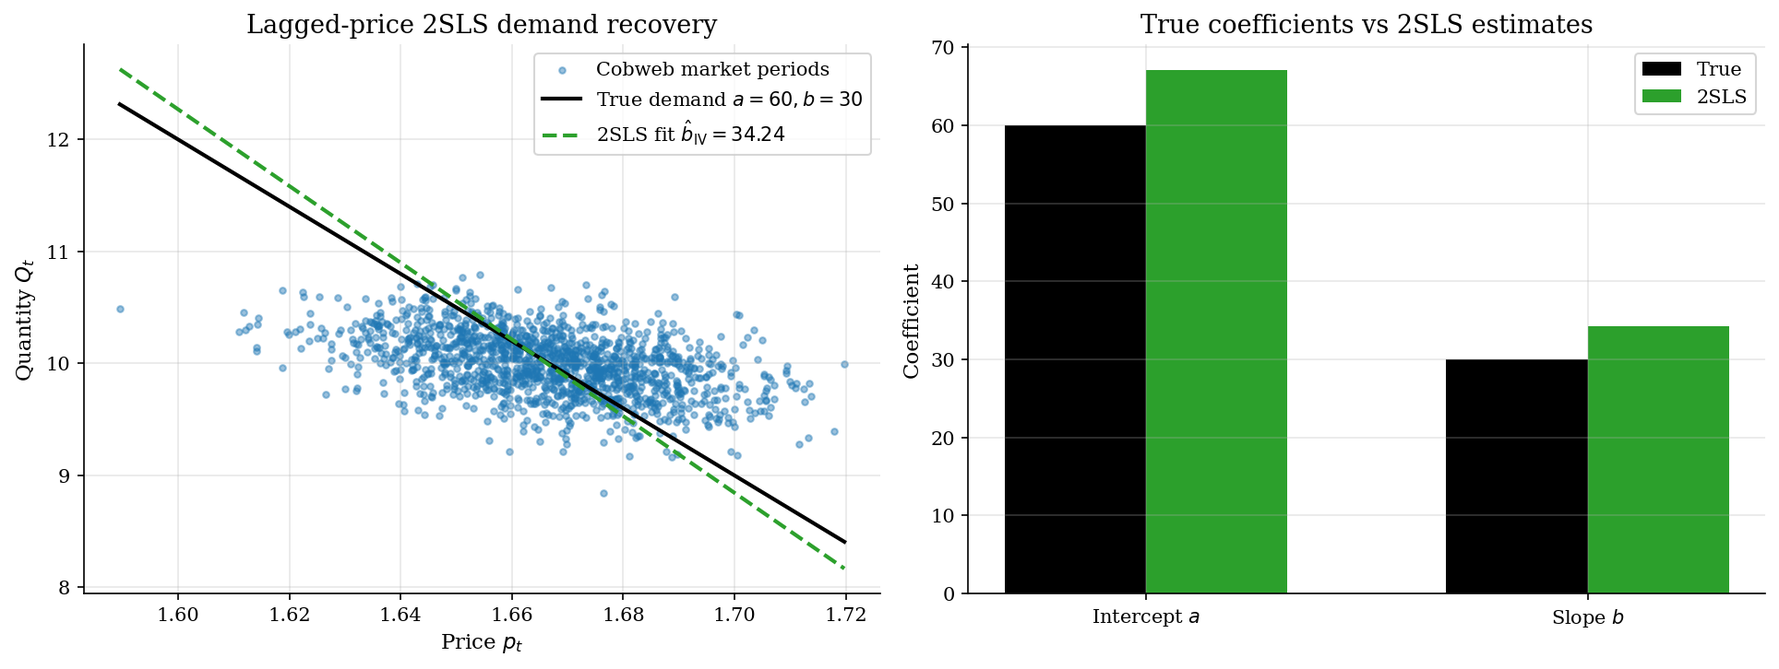
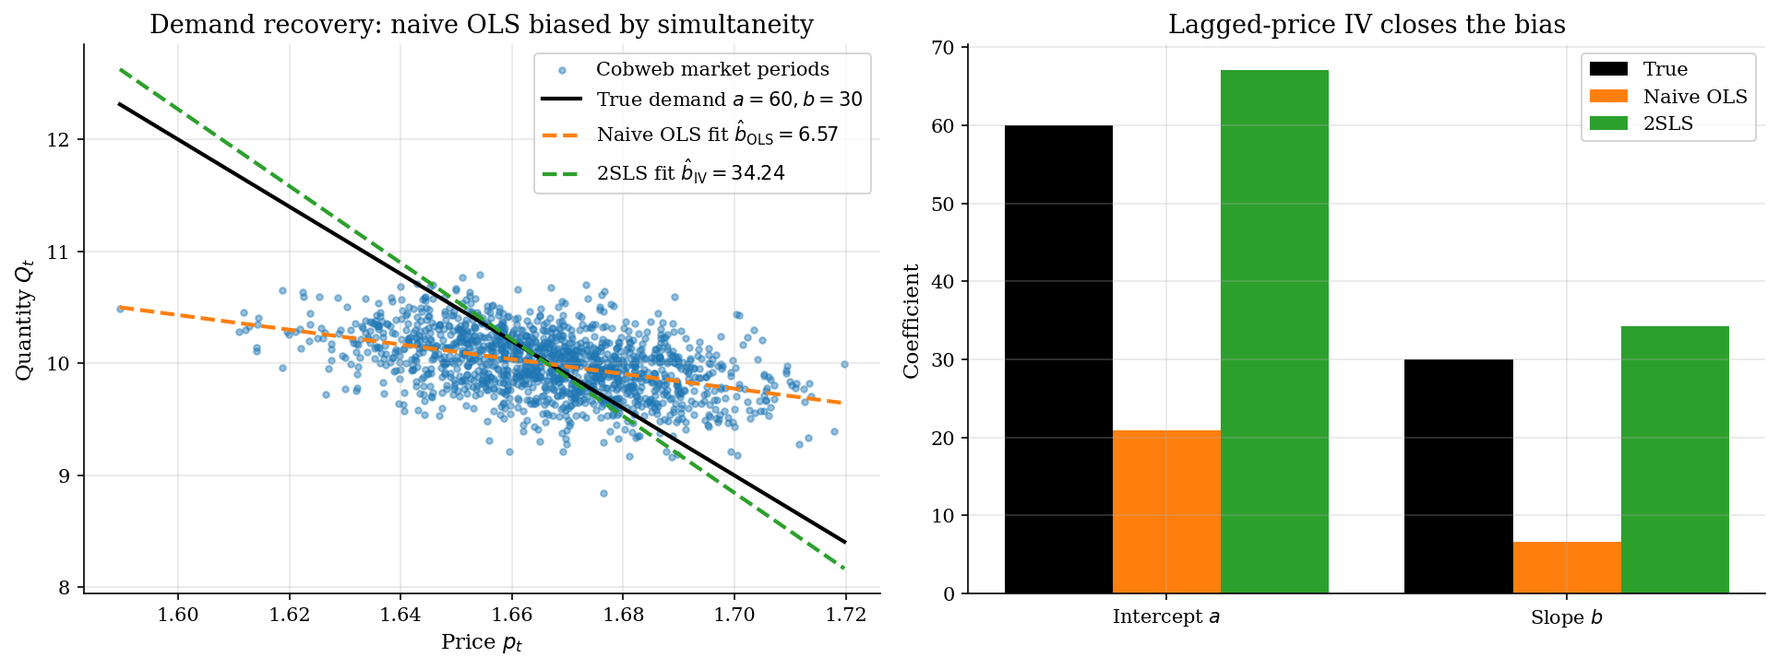
Polish cobweb GA tutorial: glossary, equations, OLS-vs-IV
Notation table now opens the Equations section; key equations carry
underbrace annotations. Adds an abstract GA loop and moves the
econometric setup (demand equation, simultaneity bias, IV moments)
inline with the IV regression results. CSV column headers switched
from snake_case to math/word labels. GA evolution GIF slowed to 60
frames at 400 ms each.

diff --git a/agent-based-models/cobweb-arifovic-ga-learning/run.py b/agent-based-models/cobweb-arifovic-ga-learning/run.py
@@ -217,6 +217,21 @@ def run_ga(
     )
 
 
+def ols_with_hc0(
+    quantities: np.ndarray,
+    prices: np.ndarray,
+) -> tuple[np.ndarray, np.ndarray]:
+    """OLS of `quantities` on a constant and `prices`, with HC0 standard errors."""
+    n = len(quantities)
+    X = np.column_stack([np.ones(n), prices])
+    XtX_inv = np.linalg.inv(X.T @ X)
+    beta = XtX_inv @ X.T @ quantities
+    residuals = quantities - X @ beta
+    Omega = (X.T * residuals**2) @ X
+    cov = XtX_inv @ Omega @ XtX_inv
+    return beta, np.sqrt(np.diag(cov))
+
+
 def two_stage_least_squares(
     quantities: np.ndarray,
     prices: np.ndarray,
@@ -351,6 +366,7 @@ def plot_iv_recovery(
     quantities: np.ndarray,
     prices: np.ndarray,
     params: MarketParams,
+    ols_beta: np.ndarray,
     iv_beta: np.ndarray,
 ) -> plt.Figure:
     fig, axes = plt.subplots(1, 2, figsize=(13, 5))
@@ -358,23 +374,26 @@ def plot_iv_recovery(
     p_grid = np.linspace(prices.min(), prices.max(), 100)
     axes[0].scatter(prices, quantities, s=10, alpha=0.45, color="C0", label="Cobweb market periods")
     axes[0].plot(p_grid, params.a - params.b * p_grid, color="black", label=f"True demand $a={params.a:.0f}, b={params.b:.0f}$")
+    axes[0].plot(p_grid, ols_beta[0] + ols_beta[1] * p_grid, color="C1", linestyle="--", label=rf"Naive OLS fit $\hat b_{{\mathrm{{OLS}}}} = {-ols_beta[1]:.2f}$")
     axes[0].plot(p_grid, iv_beta[0] + iv_beta[1] * p_grid, color="C2", linestyle="--", label=rf"2SLS fit $\hat b_{{\mathrm{{IV}}}} = {-iv_beta[1]:.2f}$")
     axes[0].set_xlabel(r"Price $p_t$")
     axes[0].set_ylabel(r"Quantity $Q_t$")
-    axes[0].set_title("Lagged-price 2SLS demand recovery")
+    axes[0].set_title("Demand recovery: naive OLS biased by simultaneity")
     axes[0].legend(loc="upper right")
 
     labels = [r"Intercept $a$", r"Slope $b$"]
     truth = [params.a, params.b]
+    ols_vals = [ols_beta[0], -ols_beta[1]]
     iv_vals = [iv_beta[0], -iv_beta[1]]
     pos = np.arange(len(labels))
-    width = 0.32
-    axes[1].bar(pos - width / 2, truth, width, label="True", color="black")
-    axes[1].bar(pos + width / 2, iv_vals, width, label="2SLS", color="C2")
+    width = 0.27
+    axes[1].bar(pos - width, truth, width, label="True", color="black")
+    axes[1].bar(pos, ols_vals, width, label="Naive OLS", color="C1")
+    axes[1].bar(pos + width, iv_vals, width, label="2SLS", color="C2")
     axes[1].set_xticks(pos)
     axes[1].set_xticklabels(labels)
     axes[1].set_ylabel("Coefficient")
-    axes[1].set_title("True coefficients vs 2SLS estimates")
+    axes[1].set_title("Lagged-price IV closes the bias")
     axes[1].legend(loc="upper right")
 
     fig.tight_layout()
@@ -412,29 +431,32 @@ def main() -> None:
     Q = iv_quantities[burn + 1 :]
     P = iv_prices[burn + 1 :]
     P_lag = iv_prices[burn : -1]
+    ols_beta, ols_se = ols_with_hc0(Q, P)
     iv_beta, iv_se = two_stage_least_squares(Q, P, P_lag)
 
     iv_table = pd.DataFrame({
-        "parameter": ["intercept a", "slope b"],
-        "true": [stable.a, stable.b],
-        "iv_estimate": [iv_beta[0], -iv_beta[1]],
-        "iv_se": [iv_se[0], iv_se[1]],
+        "Parameter": ["Intercept $a$", "Slope $b$"],
+        "True value": [stable.a, stable.b],
+        "Naive OLS": [ols_beta[0], -ols_beta[1]],
+        "OLS SE": [ols_se[0], ols_se[1]],
+        "2SLS": [iv_beta[0], -iv_beta[1]],
+        "2SLS SE": [iv_se[0], iv_se[1]],
     })
 
     regime_table = pd.DataFrame({
-        "regime": ["stable", "unstable"],
-        "demand_slope_b": [stable.b, unstable.b],
-        "supply_slope_y": [stable.y, unstable.y],
-        "n_firms": [stable.n_firms, unstable.n_firms],
-        "naive_slope_beta": [stable.naive_slope, unstable.naive_slope],
-        "ree_price": [stable.ree_price, unstable.ree_price],
-        "ree_quantity_per_firm": [stable.ree_quantity, unstable.ree_quantity],
-        "naive_diverges": [not stable.is_stable, not unstable.is_stable],
-        "ga_mean_price_last100": [
+        "Regime": ["Stable", "Unstable"],
+        "Demand slope $b$": [stable.b, unstable.b],
+        "Supply slope $y$": [stable.y, unstable.y],
+        "Firms $n$": [stable.n_firms, unstable.n_firms],
+        "Naive slope $\\beta$": [stable.naive_slope, unstable.naive_slope],
+        "REE price $p^{\\ast}$": [stable.ree_price, unstable.ree_price],
+        "REE quantity $q^{\\ast}$": [stable.ree_quantity, unstable.ree_quantity],
+        "Naive diverges": [not stable.is_stable, not unstable.is_stable],
+        "GA mean $p_t$ (last 100)": [
             float(ga_run_stable.prices[-100:].mean()),
             float(ga_run_unstable.prices[-100:].mean()),
         ],
-        "ga_abs_dev_from_ree": [
+        "Distance to $p^{\\ast}$": [
             float(abs(ga_run_stable.prices[-100:].mean() - stable.ree_price)),
             float(abs(ga_run_unstable.prices[-100:].mean() - unstable.ree_price)),
         ],
@@ -468,8 +490,7 @@ def main() -> None:
 
     report.add_equations(
         r"""
-**Notation.** Each row below is one symbol. Read this first; everything else in
-this section uses these letters.
+**Notation.**
 
 | Symbol | What it means |
 |---|---|
@@ -507,7 +528,7 @@ $$q_{i,t} = \frac{p_{i,t}^{e} - x}{y}.$$
 supply rule for every firm and substituting into inverse demand gives a
 one-step recursion in price:
 
-$$p_t = \underbrace{\alpha}_{\text{intercept}} - \underbrace{\beta}_{\text{slope ratio}}\, p_{t-1}, \qquad \alpha = \frac{a y + n x}{b y}, \quad \beta = \frac{n}{b y}.$$
+$$p_t = \underbrace{\alpha}_{\text{intercept}} - \underbrace{\beta}_{\text{slope ratio}} \cdot p_{t-1}, \qquad \alpha = \frac{a y + n x}{b y}, \quad \beta = \frac{n}{b y}.$$
 
 The fixed point of this recursion is the rational-expectations equilibrium
 
@@ -524,17 +545,25 @@ plan in the current period.
 
 **Fitness function.** The realized profit at the cleared price $p_t$ is
 
-$$\pi_{i,t} = \underbrace{p_t\, q_{i,t}}_{\text{revenue}} - \underbrace{x\, q_{i,t}}_{\text{linear cost}} - \underbrace{\tfrac{y}{2} q_{i,t}^{2}}_{\text{convex cost}}.$$
+$$\pi_{i,t} = \underbrace{p_t \cdot q_{i,t}}_{\text{revenue}} - \underbrace{x \cdot q_{i,t}}_{\text{linear cost}} - \underbrace{\tfrac{y}{2} q_{i,t}^{2}}_{\text{convex cost}}.$$
 
-This profit is the GA's fitness signal. The next generation is built by
-tournament selection on $\pi_{i,t}$, single-point crossover with probability
-$p_c$, bit-flip mutation with probability $p_m$ per bit, and Arifovic's
-election operator: a candidate child replaces its parent only if its
-hypothetical profit at the just-realized price $p_t$ weakly exceeds the
-parent's actual profit.
+**Abstract GA loop.** Let $\mathbf{B}_t = (b_{1,t}, \ldots, b_{n,t})$ be the
+population of chromosomes at the start of period $t$. One generation
+executes:
 
-The simulation runs for $T$ generations. The hyperparameters $L, N, p_c,
-p_m, T$ are listed alongside the market calibration in the next section.
+$$
+\begin{aligned}
+\text{(1) Decode} \quad & q_{i,t} = \mathrm{decode}(b_{i,t}). \\
+\text{(2) Clear} \quad & Q_t = \sum_{i=1}^{n} q_{i,t}, \qquad p_t = \tfrac{a + \varepsilon_t - Q_t}{b}. \\
+\text{(3) Score} \quad & \pi_{i,t} = p_t \cdot q_{i,t} - x \cdot q_{i,t} - \tfrac{y}{2} q_{i,t}^{2}. \\
+\text{(4) Select} \quad & \text{tournament on } \{\pi_{i,t}\}_{i=1}^{n} \text{ produces parent indices.} \\
+\text{(5) Recombine} \quad & \text{crossover with prob.\ } p_c, \text{ then bit-flip mutation with per-bit prob.\ } p_m. \\
+\text{(6) Elect} \quad & \text{keep child } b_i' \text{ iff } \pi(\mathrm{decode}(b_i'), p_t) \geq \pi_{i,t}; \text{ else keep parent.} \\
+\text{(7) Update} \quad & \mathbf{B}_{t+1} \leftarrow \text{surviving population.}
+\end{aligned}
+$$
+
+The simulation runs for $T$ generations.
 """
     )
 
@@ -582,29 +611,27 @@ p_m, T$ are listed alongside the market calibration in the next section.
         "   2h. Replace the population with the survivors of step 2g.\n"
         "```\n\n"
         "The election step is the difference-maker. Without it, lucky offspring "
-        "from a crossover that happened to land in a low-supply period are "
-        "rewarded with high realized profit and propagate even though their "
-        "implied quantity is far from the equilibrium. The election filter "
-        "evaluates each child *as if it had played in the current market* and "
-        "only keeps it if the same population's price would have rewarded that "
-        "decision.\n\n"
-        "**Where this fits in evolutionary computation.** The genetic algorithm "
-        "is the original member of a wider family of evolutionary search "
-        "methods. Holland (1975) introduced the GA as a population-based "
-        "heuristic for fixed-length bit strings under selection, crossover, "
-        "and mutation. Koza (1992) generalized to genetic programming, where "
-        "candidates are variable-length expressions or programs. Modern "
-        "relatives such as evolution strategies, CMA-ES, and neuroevolution "
-        "replace the bit string with continuous parameters and Gaussian "
-        "perturbations. Arifovic's contribution is the election operator: a "
-        "domain-specific filter that ties the GA's fitness to a counterfactual "
-        "evaluation at the just-realized market price. The election operator "
-        "is what stabilizes the otherwise unstable cobweb, and it is "
-        "structurally similar in spirit to the policy-improvement step that "
-        "stabilizes Q-learning in the "
-        "[`q-learning-growth`](../../dynamic-programming/q-learning-growth/) "
-        "tutorial: in both, a learner accepts a candidate update only if it "
-        "would have been an improvement under the most recent observed state."
+        "from a crossover that happened to land in a low-supply period propagate "
+        "on inflated profits even though their implied quantity is far from "
+        "the equilibrium. The election filter scores each child at the "
+        "just-realized price and keeps it only if it beats its parent there.\n\n"
+        "**Where this fits in evolutionary computation.** "
+        "The genetic algorithm sits inside a wider family of evolutionary "
+        "search methods. "
+        "Holland (1975) introduced it as a population-based heuristic on "
+        "fixed-length bit strings. "
+        "Koza (1992) generalized to genetic programming, where the candidates "
+        "are variable-length expressions or programs. "
+        "Evolution strategies, CMA-ES, and neuroevolution swap the bit string "
+        "for continuous parameters under Gaussian perturbations. "
+        "Arifovic's contribution is the election operator. "
+        "The operator filters each candidate child against a counterfactual "
+        "profit at the just-realized market price. "
+        "This filter is what stabilizes the otherwise unstable cobweb. "
+        "It mirrors the policy-improvement step in Q-learning "
+        "(see [`q-learning-growth`](../../dynamic-programming/q-learning-growth/)). "
+        "In both, a learner accepts a candidate update only if it would have "
+        "been an improvement under the most recently observed state."
     )
 
     report.add_results(
@@ -655,21 +682,29 @@ p_m, T$ are listed alongside the market calibration in the next section.
         "The estimation block uses a naive-cobweb price series with i.i.d. "
         "demand-intercept shocks $\\varepsilon_t$ as test data. The GA itself "
         "tracks REE so closely under the election operator that the resulting "
-        "price barely moves; the naive cobweb provides the AR(1)-style "
+        "price barely moves. The naive cobweb provides the AR(1)-style "
         "persistence that makes the IV exercise interesting.\n\n"
-        "The demand shock $\\varepsilon_t$ feeds into the realized price "
-        "through market clearing, which makes a same-period regression of "
-        "$Q_t$ on $p_t$ inconsistent. The lagged price $p_{t-1}$ side-steps "
-        "the simultaneity: it drives the next-period quantity through firms' "
-        "naive expectations, so it is correlated with $p_t$, while remaining "
-        "uncorrelated with $\\varepsilon_t$ when shocks are independent across "
-        "periods. Two-stage least squares with $p_{t-1}$ as instrument "
-        "recovers the true demand intercept and slope."
+        "**Structural demand equation.** The data are the realized pairs "
+        "$\\{(p_t, Q_t)\\}_{t=1}^{T}$. The demand we want to recover is\n\n"
+        "$$Q_t = a - b \\cdot p_t + \\varepsilon_t.$$\n\n"
+        "**Why naive OLS is biased.** Market clearing forces the realized "
+        "price to absorb the demand shock,\n\n"
+        "$$p_t = \\frac{a + \\varepsilon_t - Q_t}{b} \\quad \\Longrightarrow \\quad \\mathrm{Cov}(p_t,\\, \\varepsilon_t) = \\frac{\\mathrm{Var}(\\varepsilon_t)}{b} > 0.$$\n\n"
+        "An OLS regression of $Q_t$ on $p_t$ therefore underestimates the "
+        "demand slope; the same simultaneity that drives prices in real "
+        "markets drives them here.\n\n"
+        "**Lagged-price IV.** The lagged price $p_{t-1}$ is correlated with "
+        "$p_t$ through firms' naive supply rule but uncorrelated with the "
+        "current shock under i.i.d. $\\varepsilon_t$,\n\n"
+        "$$\\mathrm{Cov}(p_{t-1},\\, p_t) \\neq 0, \\qquad \\mathbb{E}[\\,p_{t-1} \\cdot \\varepsilon_t\\,] = 0.$$\n\n"
+        "Two-stage least squares with $p_{t-1}$ as instrument is consistent. "
+        "The first stage projects $p_t$ onto $(1, p_{t-1})$; the second stage "
+        "regresses $Q_t$ on the fitted prices."
     )
     report.add_figure(
         "figures/iv-recovery.png",
-        "Lagged-price 2SLS demand-curve recovery from a naive-cobweb price series",
-        plot_iv_recovery(Q, P, stable, iv_beta),
+        "Naive OLS vs lagged-price 2SLS demand-curve recovery",
+        plot_iv_recovery(Q, P, stable, ols_beta, iv_beta),
     )
 
     report.add_table(
@@ -683,11 +718,11 @@ p_m, T$ are listed alongside the market calibration in the next section.
 
     report.add_table(
         "tables/iv-estimates.csv",
-        "Demand-curve recovery: true vs 2SLS",
+        "Demand-curve recovery: true vs naive OLS vs 2SLS",
         iv_table,
-        "Coefficients with HC0 standard errors. 2SLS with lagged price as "
-        "instrument is consistent under i.i.d. demand shocks because "
-        "$p_{t-1}$ enters $p_t$ only through firms' naive supply rule.",
+        "Coefficients with HC0 standard errors. Naive OLS underestimates the "
+        "demand slope because $\\varepsilon_t$ enters $p_t$ through market "
+        "clearing. 2SLS with lagged price as instrument is consistent.",
     )
 
     report.add_takeaway(

diff --git a/agent-based-models/cobweb-arifovic-ga-learning/README.md b/agent-based-models/cobweb-arifovic-ga-learning/README.md
@@ -10,8 +10,7 @@ This tutorial reproduces the headline result. We solve for the REE in closed for
 
 ## Equations
 
-**Notation.** Each row below is one symbol. Read this first; everything else in
-this section uses these letters.
+**Notation.**
 
 | Symbol | What it means |
 |---|---|
@@ -49,7 +48,7 @@ $$q_{i,t} = \frac{p_{i,t}^{e} - x}{y}.$$
 supply rule for every firm and substituting into inverse demand gives a
 one-step recursion in price:
 
-$$p_t = \underbrace{\alpha}_{\text{intercept}} - \underbrace{\beta}_{\text{slope ratio}}\, p_{t-1}, \qquad \alpha = \frac{a y + n x}{b y}, \quad \beta = \frac{n}{b y}.$$
+$$p_t = \underbrace{\alpha}_{\text{intercept}} - \underbrace{\beta}_{\text{slope ratio}} \cdot p_{t-1}, \qquad \alpha = \frac{a y + n x}{b y}, \quad \beta = \frac{n}{b y}.$$
 
 The fixed point of this recursion is the rational-expectations equilibrium
 
@@ -66,17 +65,25 @@ plan in the current period.
 
 **Fitness function.** The realized profit at the cleared price $p_t$ is
 
-$$\pi_{i,t} = \underbrace{p_t\, q_{i,t}}_{\text{revenue}} - \underbrace{x\, q_{i,t}}_{\text{linear cost}} - \underbrace{\tfrac{y}{2} q_{i,t}^{2}}_{\text{convex cost}}.$$
+$$\pi_{i,t} = \underbrace{p_t \cdot q_{i,t}}_{\text{revenue}} - \underbrace{x \cdot q_{i,t}}_{\text{linear cost}} - \underbrace{\tfrac{y}{2} q_{i,t}^{2}}_{\text{convex cost}}.$$
 
-This profit is the GA's fitness signal. The next generation is built by
-tournament selection on $\pi_{i,t}$, single-point crossover with probability
-$p_c$, bit-flip mutation with probability $p_m$ per bit, and Arifovic's
-election operator: a candidate child replaces its parent only if its
-hypothetical profit at the just-realized price $p_t$ weakly exceeds the
-parent's actual profit.
+**Abstract GA loop.** Let $\mathbf{B}_t = (b_{1,t}, \ldots, b_{n,t})$ be the
+population of chromosomes at the start of period $t$. One generation
+executes:
 
-The simulation runs for $T$ generations. The hyperparameters $L, N, p_c,
-p_m, T$ are listed alongside the market calibration in the next section.
+$$
+\begin{aligned}
+\text{(1) Decode} \quad & q_{i,t} = \mathrm{decode}(b_{i,t}). \\
+\text{(2) Clear} \quad & Q_t = \sum_{i=1}^{n} q_{i,t}, \qquad p_t = \tfrac{a + \varepsilon_t - Q_t}{b}. \\
+\text{(3) Score} \quad & \pi_{i,t} = p_t \cdot q_{i,t} - x \cdot q_{i,t} - \tfrac{y}{2} q_{i,t}^{2}. \\
+\text{(4) Select} \quad & \text{tournament on } \{\pi_{i,t}\}_{i=1}^{n} \text{ produces parent indices.} \\
+\text{(5) Recombine} \quad & \text{crossover with prob.\ } p_c, \text{ then bit-flip mutation with per-bit prob.\ } p_m. \\
+\text{(6) Elect} \quad & \text{keep child } b_i' \text{ iff } \pi(\mathrm{decode}(b_i'), p_t) \geq \pi_{i,t}; \text{ else keep parent.} \\
+\text{(7) Update} \quad & \mathbf{B}_{t+1} \leftarrow \text{surviving population.}
+\end{aligned}
+$$
+
+The simulation runs for $T$ generations.
 
 ## Model Setup
 
@@ -116,9 +123,9 @@ Output: price path p_1, ..., p_T and per-period population quantities
    2h. Replace the population with the survivors of step 2g.
 ```
 
-The election step is the difference-maker. Without it, lucky offspring from a crossover that happened to land in a low-supply period are rewarded with high realized profit and propagate even though their implied quantity is far from the equilibrium. The election filter evaluates each child *as if it had played in the current market* and only keeps it if the same population's price would have rewarded that decision.
+The election step is the difference-maker. Without it, lucky offspring from a crossover that happened to land in a low-supply period propagate on inflated profits even though their implied quantity is far from the equilibrium. The election filter scores each child at the just-realized price and keeps it only if it beats its parent there.
 
-**Where this fits in evolutionary computation.** The genetic algorithm is the original member of a wider family of evolutionary search methods. Holland (1975) introduced the GA as a population-based heuristic for fixed-length bit strings under selection, crossover, and mutation. Koza (1992) generalized to genetic programming, where candidates are variable-length expressions or programs. Modern relatives such as evolution strategies, CMA-ES, and neuroevolution replace the bit string with continuous parameters and Gaussian perturbations. Arifovic's contribution is the election operator: a domain-specific filter that ties the GA's fitness to a counterfactual evaluation at the just-realized market price. The election operator is what stabilizes the otherwise unstable cobweb, and it is structurally similar in spirit to the policy-improvement step that stabilizes Q-learning in the [`q-learning-growth`](../../dynamic-programming/q-learning-growth/) tutorial: in both, a learner accepts a candidate update only if it would have been an improvement under the most recent observed state.
+**Where this fits in evolutionary computation.** The genetic algorithm sits inside a wider family of evolutionary search methods. Holland (1975) introduced it as a population-based heuristic on fixed-length bit strings. Koza (1992) generalized to genetic programming, where the candidates are variable-length expressions or programs. Evolution strategies, CMA-ES, and neuroevolution swap the bit string for continuous parameters under Gaussian perturbations. Arifovic's contribution is the election operator. The operator filters each candidate child against a counterfactual profit at the just-realized market price. This filter is what stabilizes the otherwise unstable cobweb. It mirrors the policy-improvement step in Q-learning (see [`q-learning-growth`](../../dynamic-programming/q-learning-growth/)). In both, a learner accepts a candidate update only if it would have been an improvement under the most recently observed state.
 
 ## Results
 
@@ -138,29 +145,43 @@ An animated view of the same population shows the convergence as a shrinking dis
 
 <img src="figures/ga-evolution.gif" alt="Animated GA population distribution converging to REE" width="80%">
 
-The estimation block uses a naive-cobweb price series with i.i.d. demand-intercept shocks $\varepsilon_t$ as test data. The GA itself tracks REE so closely under the election operator that the resulting price barely moves; the naive cobweb provides the AR(1)-style persistence that makes the IV exercise interesting.
+The estimation block uses a naive-cobweb price series with i.i.d. demand-intercept shocks $\varepsilon_t$ as test data. The GA itself tracks REE so closely under the election operator that the resulting price barely moves. The naive cobweb provides the AR(1)-style persistence that makes the IV exercise interesting.
 
-The demand shock $\varepsilon_t$ feeds into the realized price through market clearing, which makes a same-period regression of $Q_t$ on $p_t$ inconsistent. The lagged price $p_{t-1}$ side-steps the simultaneity: it drives the next-period quantity through firms' naive expectations, so it is correlated with $p_t$, while remaining uncorrelated with $\varepsilon_t$ when shocks are independent across periods. Two-stage least squares with $p_{t-1}$ as instrument recovers the true demand intercept and slope.
+**Structural demand equation.** The data are the realized pairs $\{(p_t, Q_t)\}_{t=1}^{T}$. The demand we want to recover is
 
-<img src="figures/iv-recovery.png" alt="Lagged-price 2SLS demand-curve recovery from a naive-cobweb price series" width="80%">
+$$Q_t = a - b \cdot p_t + \varepsilon_t.$$
+
+**Why naive OLS is biased.** Market clearing forces the realized price to absorb the demand shock,
+
+$$p_t = \frac{a + \varepsilon_t - Q_t}{b} \quad \Longrightarrow \quad \mathrm{Cov}(p_t,\, \varepsilon_t) = \frac{\mathrm{Var}(\varepsilon_t)}{b} > 0.$$
+
+An OLS regression of $Q_t$ on $p_t$ therefore underestimates the demand slope; the same simultaneity that drives prices in real markets drives them here.
+
+**Lagged-price IV.** The lagged price $p_{t-1}$ is correlated with $p_t$ through firms' naive supply rule but uncorrelated with the current shock under i.i.d. $\varepsilon_t$,
+
+$$\mathrm{Cov}(p_{t-1},\, p_t) \neq 0, \qquad \mathbb{E}[\,p_{t-1} \cdot \varepsilon_t\,] = 0.$$
+
+Two-stage least squares with $p_{t-1}$ as instrument is consistent. The first stage projects $p_t$ onto $(1, p_{t-1})$; the second stage regresses $Q_t$ on the fitted prices.
+
+<img src="figures/iv-recovery.png" alt="Naive OLS vs lagged-price 2SLS demand-curve recovery" width="80%">
 
 Naive cobweb stability is a knife-edge in $\beta$. The GA tracks REE in both regimes; the absolute deviation of the last-100-period mean price from $p^{\ast}$ stays small even when the naive rule diverges.
 
 **Regime grid and GA convergence summary**
 
-| regime   |   demand_slope_b |   supply_slope_y |   n_firms |   naive_slope_beta |   ree_price |   ree_quantity_per_firm | naive_diverges   |   ga_mean_price_last100 |   ga_abs_dev_from_ree |
-|:---------|-----------------:|-----------------:|----------:|-------------------:|------------:|------------------------:|:-----------------|------------------------:|----------------------:|
-| stable   |               30 |                2 |        30 |                0.5 |     1.66667 |                0.333333 | False            |                 1.66655 |           0.000112418 |
-| unstable |               10 |                2 |        30 |                1.5 |     3       |                1        | True             |                 3.01176 |           0.0117647   |
+| Regime   |   Demand slope $b$ |   Supply slope $y$ |   Firms $n$ |   Naive slope $\beta$ |   REE price $p^{\ast}$ |   REE quantity $q^{\ast}$ | Naive diverges   |   GA mean $p_t$ (last 100) |   Distance to $p^{\ast}$ |
+|:---------|-------------------:|-------------------:|------------:|----------------------:|-----------------------:|--------------------------:|:-----------------|---------------------------:|-------------------------:|
+| Stable   |                 30 |                  2 |          30 |                   0.5 |                1.66667 |                  0.333333 | False            |                    1.66655 |              0.000112418 |
+| Unstable |                 10 |                  2 |          30 |                   1.5 |                3       |                  1        | True             |                    3.01176 |              0.0117647   |
 
-Coefficients with HC0 standard errors. 2SLS with lagged price as instrument is consistent under i.i.d. demand shocks because $p_{t-1}$ enters $p_t$ only through firms' naive supply rule.
+Coefficients with HC0 standard errors. Naive OLS underestimates the demand slope because $\varepsilon_t$ enters $p_t$ through market clearing. 2SLS with lagged price as instrument is consistent.
 
-**Demand-curve recovery: true vs 2SLS**
+**Demand-curve recovery: true vs naive OLS vs 2SLS**
 
-| parameter   |   true |   iv_estimate |   iv_se |
-|:------------|-------:|--------------:|--------:|
-| intercept a |     60 |       67.059  | 3.08055 |
-| slope b     |     30 |       34.2436 | 1.84817 |
+| Parameter     |   True value |   Naive OLS |   OLS SE |    2SLS |   2SLS SE |
+|:--------------|-------------:|------------:|---------:|--------:|----------:|
+| Intercept $a$ |           60 |     20.9452 | 0.562537 | 67.059  |   3.08055 |
+| Slope $b$     |           30 |      6.5707 | 0.337715 | 34.2436 |   1.84817 |
 
 ## Takeaway
 
